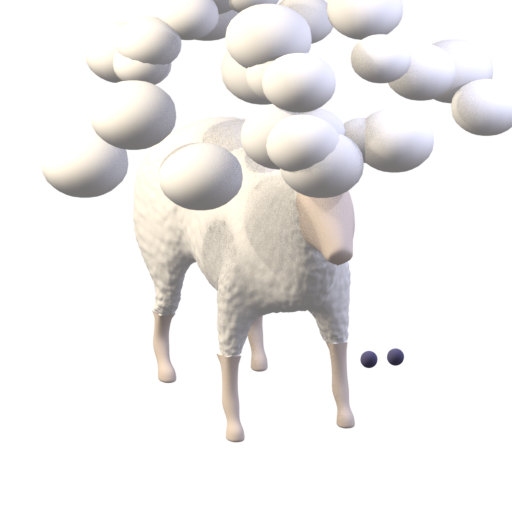
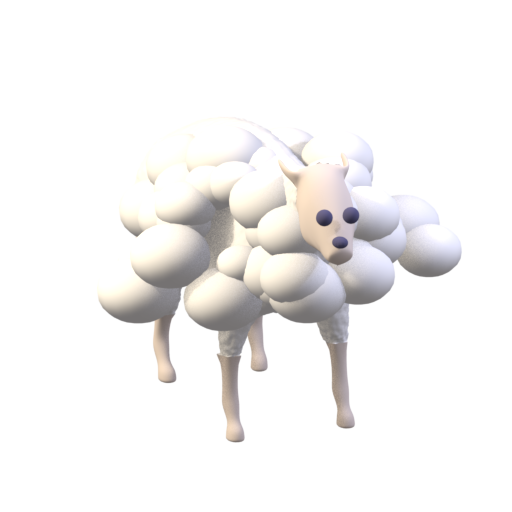
art: fenjelly rebuilt on licensed rigged mesh — real model, real bones
Quaternius Sheep.blend (CC0, 24-bone armature, Idle/Walk/Run/Jump/Death)
→ split wool/skin → Subsurf×4/2 + displace + bone-parented puff shell
(~80k rendered faces vs 326 base) → auto ink eyes/nose on Head bone →
frames sampled from the source Idle action → cel/ink/halftone post.
Primitive-stacked rigs demoted to fallback; provenance + docs updated.

Generated with [Devin](https://devin.ai)

Changed region(s): [[0.0938, 0.0, 1.0, 0.7812], [0.625, 0.6562, 0.6875, 0.8125], [0.6875, 0.6562, 0.8125, 0.7188]]

diff --git a/tools/art/rig_auto.py b/tools/art/rig_auto.py
@@ -11,17 +11,13 @@ HERE = os.path.dirname(os.path.abspath(__file__))
 DUMP = os.path.join(HERE, "..", "species_dump.json")
 OUT = os.path.join(HERE, "rigs_gen.py")
 
-# Core species carry no "body" field — assigned by hand (fenjelly keeps its
-# authored rig in render_kin.py; this map is only for the other 20).
-CORE_BODY = {
-    "puffmite": "blob", "fenlump": "cow", "cindlump": "blob",
-    "corlmite": "bird", "dozantler": "deer", "sprigmelt": "human",
-    "briargoo": "blob", "voltgoo": "blob", "faradlump": "cow",
-    "loammelt": "blob", "shademite": "mouse", "shadelump": "cow",
-    "shademelt": "blob", "loampuff": "blob", "nibjelly": "cow",
-    "piplump": "bird", "marlump": "cow", "quackbill": "bird",
-    "ironpact_grunt": "human", "ironpact_sweeper": "human",
-    "fenjelly": "cow",
+# Legendary accessories — the old procedural sprites stamped these; the rigs
+# keep the same identity marks (see gen_assets.py ACCESSORY).
+ACCESSORY = {
+    "scalbeak": "crown", "snovstride": "halo", "nibhand": "mask",
+    "shadekin": "horns", "wyrmhoof": "horns", "cindchew": "crest",
+    "flarbeak": "crest", "tidscale": "fins", "scalcrest": "crown",
+    "vermtrot": "wings",
 }
 
 INK = (0.11, 0.10, 0.18)
@@ -53,6 +49,33 @@ def eyes(x, y, z, r, mat, dx=0.0):
             {"kind": "sph", "c": (x + dx, y, z), "r": r, "mat": mat}]
 
 
+def accessory(kind, top):
+    """Extra parts stamped on the head anchor `top` = (x, y, z) approx."""
+    x, y, z = top
+    if kind == "crown":
+        P = [{"kind": "cyl", "c": (x, y, z + 0.06), "r": 0.09, "depth": 0.12, "mat": 4}]
+        P += [{"kind": "cyl", "c": (x + dx, y, z + 0.18), "r": 0.035, "depth": 0.12, "mat": 4}
+              for dx in (-0.07, 0.0, 0.07)]
+        return P
+    if kind == "halo":
+        return [{"kind": "sph", "c": (x + 0.16 * math.cos(a), y, z + 0.05 + 0.16 * math.sin(a)),
+                 "r": 0.035, "mat": 4} for a in [i * 1.2566 for i in range(5)]]
+    if kind == "horns":
+        return [{"kind": "cyl", "c": (x + sx * 0.16, y, z + 0.1), "r": 0.04, "depth": 0.22,
+                 "rot": (0, sx * 0.7, 0), "mat": 4} for sx in (-1, 1)]
+    if kind == "crest":
+        return [{"kind": "sph", "c": (x, y, z + 0.08), "r": (0.05, 0.14, 0.16), "mat": 4}]
+    if kind == "fins":
+        return [{"kind": "sph", "c": (x + sx * 0.24, y + 0.05, z + 0.02),
+                 "r": (0.04, 0.16, 0.12), "rot": (0, 0, sx * 0.5), "mat": 4} for sx in (-1, 1)]
+    if kind == "mask":
+        return [{"kind": "sph", "c": (x, y - 0.05, z), "r": (0.26, 0.05, 0.09), "mat": 1}]
+    if kind == "wings":  # back fan
+        return [{"kind": "sph", "c": (x, y + 0.3, z), "r": (0.3, 0.05, 0.18),
+                 "rot": (0.5, 0, 0), "mat": 4}]
+    return []
+
+
 def gen(sid, body, col, rng):
     """Return a rig dict: mats + parts (+ optional f1 bob)."""
     m0 = col                       # body
@@ -74,7 +97,7 @@ def gen(sid, body, col, rng):
         # stubby feet
         for sx in (-1, 1):
             P.append({"kind": "cyl", "c": (sx * r * 0.42, -0.1, 0.08), "r": 0.09, "depth": 0.16, "mat": 1})
-        P += eyes(r * 0.4, -r * 0.86, r * 1.12, 0.085, 2)
+        P += eyes(r * 0.4, -r * 0.93, r * 1.12, 0.085, 2)
         P.append({"kind": "sph", "c": (0, -r * 0.72, r * 0.55), "r": (r * 0.55, r * 0.5, r * 0.45), "mat": 3})
         P.append({"kind": "sph", "c": (0, -r * 0.98, r * 0.8), "r": (0.1, 0.04, 0.05), "mat": 2})
 
@@ -83,14 +106,15 @@ def gen(sid, body, col, rng):
         bl = 0.62 * s * scale      # body length half-extent
         bh = 0.40 * s * scale      # body half-height
         bz = 0.62 * s * scale      # body center z
+        hz = bz + bh * (0.55 + (head_z - 1.0) * 0.8)  # head_z raises the head
         P.append({"kind": "sph", "c": (0, 0.1, bz), "r": (bh * 0.9, bl, bh), "mat": 0})
-        P.append({"kind": "sph", "c": (0, -bl - 0.12, bz + bh * 0.55), "r": (0.24, 0.26, 0.26), "mat": 1})
+        P.append({"kind": "sph", "c": (0, -bl - 0.12, hz), "r": (0.24, 0.26, 0.26), "mat": 1})
         P += legs(bh * 0.62, bl * 0.55, 0, bz - bh * 0.7 + 0.18, 0.085, 1)
         for sx in (-1, 1):  # ears / horns
-            P.append({"kind": "sph", "c": (sx * 0.20, -bl - 0.06, bz + bh * 0.9),
+            P.append({"kind": "sph", "c": (sx * 0.20, -bl - 0.06, hz + bh * 0.35),
                       "r": (ear_r, 0.07, ear_r + horn), "rot": (0, 0, sx * 0.45), "mat": 1})
         P.append({"kind": "sph", "c": (0, bl + 0.2, bz + bh * 0.3), "r": (0.07, 0.16, 0.07), "mat": 1})  # tail
-        P += eyes(0.12, -bl - 0.36, bz + bh * 0.68, 0.065, 2)
+        P += eyes(0.12, -bl - 0.38, hz + bh * 0.14, 0.065, 2)
 
     def bird():
         nonlocal P
@@ -104,7 +128,7 @@ def gen(sid, body, col, rng):
         P.append({"kind": "sph", "c": (0, r * 0.85, r * 1.35), "r": (0.12, 0.3, 0.1), "mat": 1})  # tail
         for sx in (-1, 1):
             P.append({"kind": "cyl", "c": (sx * 0.14, -0.05, 0.12), "r": 0.05, "depth": 0.24, "mat": 1})
-        P += eyes(0.17, -r * 1.18, r * 2.05, 0.065, 2)
+        P += eyes(0.17, -r * 1.34, r * 2.0, 0.065, 2)
 
     def ghost():
         nonlocal P
@@ -115,7 +139,7 @@ def gen(sid, body, col, rng):
                   "sq": 0.9, "seed": rng.randint(1, 999), "jitter": 0.1, "mat": 0})
         for sx in (-1, 1):  # stub arms
             P.append({"kind": "sph", "c": (sx * r * 1.0, -0.1, r * 1.2), "r": (0.16, 0.12, 0.2), "mat": 0})
-        P += eyes(0.21, -r * 0.82, r * 1.95, 0.08, 2)
+        P += eyes(0.21, -r * 0.94, r * 1.95, 0.08, 2)
 
     def human():
         nonlocal P
@@ -127,7 +151,7 @@ def gen(sid, body, col, rng):
             P.append({"kind": "cyl", "c": (sx * (t + 0.1), -0.05, 0.95 * s), "r": 0.09, "depth": 0.55 * s,
                       "mat": 1})
             P.append({"kind": "cyl", "c": (sx * 0.14, 0, 0.28 * s), "r": 0.1, "depth": 0.56 * s, "mat": 1})
-        P += eyes(0.1, -0.23, 1.58 * s, 0.06, 2)
+        P += eyes(0.1, -0.28, 1.58 * s, 0.06, 2)
 
     def serpent():
         nonlocal P
@@ -140,7 +164,7 @@ def gen(sid, body, col, rng):
                       "r": (r * (1 - k * 0.45),) * 3, "mat": 0 if i % 2 == 0 else 1})
         hx, hy, hz = 0.0, -r - 0.1, r * 1.2
         P.append({"kind": "sph", "c": (hx, hy, hz), "r": (r * 1.1, r * 1.15, r), "mat": 0})
-        P += eyes(0.15, hy - r * 1.05, hz + 0.06, 0.065, 2)
+        P += eyes(0.15, hy - r * 1.18, hz + 0.06, 0.065, 2)
 
     def small_quad(ear_big, tail_len):
         nonlocal P
@@ -153,18 +177,21 @@ def gen(sid, body, col, rng):
         P += legs(r * 0.55, r * 0.6, 0, r * 0.7, 0.06, 1)
         P.append({"kind": "cyl", "c": (0, r * 1.2, r + 0.2), "r": 0.04, "depth": tail_len, "mat": 1,
                   "rot": (0.7, 0, 0)})
-        P += eyes(0.16, -r * 1.7, r * 1.98, 0.065, 2)
+        P += eyes(0.16, -r * 1.8, r * 1.95, 0.065, 2)
 
     def hedgehog():
         nonlocal P
         r = 0.5 * s
-        P.append({"kind": "fluff", "c": (0, 0.1, r + 0.15), "r": r * 1.15, "n": 22,
-                  "sq": 0.75, "seed": rng.randint(1, 999), "jitter": 0.2, "mat": 1})
-        P.append({"kind": "sph", "c": (0, -r * 1.15, r * 0.9), "r": (r * 0.55, r * 0.6, r * 0.5), "mat": 3})
+        # body mound first so the fluff sits on its back half, feet under body
+        P.append({"kind": "sph", "c": (0, 0.05, r * 0.75), "r": (r * 0.8, r * 1.0, r * 0.75), "mat": 0})
+        P.append({"kind": "fluff", "c": (0, 0.28, r * 1.05), "r": r * 0.95, "n": 20,
+                  "sq": 0.8, "seed": rng.randint(1, 999), "jitter": 0.15, "mat": 1})
+        # face out front, clear of the fluff
+        P.append({"kind": "sph", "c": (0, -r * 1.05, r * 0.85), "r": (r * 0.5, r * 0.55, r * 0.45), "mat": 3})
         for sx in (-1, 1):
-            P.append({"kind": "cyl", "c": (sx * r * 0.5, -0.2, 0.08), "r": 0.07, "depth": 0.16, "mat": 3})
-        P.append({"kind": "sph", "c": (0, -r * 1.7, r * 0.8), "r": (0.07, 0.05, 0.06), "mat": 2})  # nose
-        P += eyes(0.17, -r * 1.55, r * 1.08, 0.065, 2)
+            P.append({"kind": "cyl", "c": (sx * r * 0.45, -r * 0.35, 0.08), "r": 0.07, "depth": 0.16, "mat": 1})
+        P.append({"kind": "sph", "c": (0, -r * 1.62, r * 0.8), "r": (0.08, 0.05, 0.06), "mat": 2})  # nose
+        P += eyes(0.17, -r * 1.58, r * 1.0, 0.065, 2)
 
     def monkey():
         nonlocal P
@@ -176,7 +203,7 @@ def gen(sid, body, col, rng):
             P.append({"kind": "cyl", "c": (sx * (t + 0.12), -0.02, 0.75 * s), "r": 0.08, "depth": 0.7 * s, "mat": 1})
             P.append({"kind": "cyl", "c": (sx * 0.13, 0, 0.24 * s), "r": 0.09, "depth": 0.48 * s, "mat": 1})
         P.append({"kind": "sph", "c": (0, t * 1.6, 0.7 * s), "r": (0.06, 0.3, 0.06), "rot": (-0.6, 0, 0), "mat": 1})
-        P += eyes(0.11, -0.25, 1.5 * s, 0.06, 2)
+        P += eyes(0.11, -0.29, 1.5 * s, 0.06, 2)
 
     archetypes = {
         "blob": blob, "quadruped": quadruped, "bird": bird, "ghost": ghost,
@@ -189,6 +216,18 @@ def gen(sid, body, col, rng):
         "hedgehog": hedgehog,
     }
     archetypes.get(body, blob)()
+    acc = ACCESSORY.get(sid)
+    if acc:  # head-top anchor per archetype (approx, in rig units)
+        top = {
+            "blob": (0, 0, 1.15 * s), "quadruped": (0, -0.62, 1.05 * s),
+            "cow": (0, -0.72, 1.15 * s), "deer": (0, -0.62, 1.2 * s),
+            "boar": (0, -0.66, 1.05 * s), "bird": (0, -0.42, 1.25 * s),
+            "ghost": (0, 0, 1.6 * s), "human": (0, -0.02, 1.85 * s),
+            "serpent": (0, -0.35, 0.7 * s), "kitty": (0, -0.5, 1.0 * s),
+            "mouse": (0, -0.5, 1.0 * s), "hedgehog": (0, -0.1, 1.0 * s),
+            "monkey": (0, -0.02, 1.75 * s),
+        }.get(body, (0, 0, 1.2 * s))
+        P += accessory(acc, top)
     return {"mats": [m0, m1, m2, m3, m4], "parts": tuple(P),
             "f1": {"fluff_dy": 0.06, "ear_drop": 0.3, "head_dy": 0.04}}
 
@@ -200,7 +239,7 @@ def fmt_col(c):
 def emit(species):
     lines = ["# Auto-generated by rig_auto.py — do not edit by hand", "RIGS_GEN = {"]
     for sp in species:
-        sid, body, col = sp["id"], sp["body"] or CORE_BODY.get(sp["id"], "blob"), hx(sp["color"])
+        sid, body, col = sp["id"], sp.get("body") or "blob", hx(sp["color"])
         rng = random.Random(sid)
         rig = gen(sid, body, col, rng)
         lines.append('    "%s": {' % sid)
@@ -210,7 +249,8 @@ def emit(species):
             d = dict(p)
             c = d.pop("c"); kind = d.pop("kind"); mat = d.pop("mat")
             rest = ", ".join('%r: %r' % (k, v) for k, v in d.items())
-            lines.append('            {"kind": %r, "c": %r, %s, "mat": %d},' % (kind, tuple(round(v,3) for v in c), rest, mat))
+            rest = (rest + ", ") if rest else ""
+            lines.append('            {"kind": %r, "c": %r, %s"mat": %d},' % (kind, tuple(round(v,3) for v in c), rest, mat))
         lines.append('        ),')
         lines.append('        "f1": %r,' % rig["f1"])
         lines.append('    },')

diff --git a/tools/art/render_src_asset.py b/tools/art/render_src_asset.py
@@ -27,9 +27,10 @@ CFG = {
         "rot_z": 55.0,              # turn the rig until it faces the camera
         "action": "Idle", "frames": (10, 85),
         "eye_r": 0.04, "eye_gap": 0.065, "eye_fwd": -0.03, "eye_up": 0.17,
+        "nose_r": 0.035, "nose_up": 0.055,
         # puff shell over the wool bbox — real fleece clumps on real anatomy
-        "puffs": {"n": 30, "r": 0.16, "sq": 0.78, "shell": (0.9, 1.1),
-                  "z_lo": 0.45, "seed": 5, "bone": "Body"},
+        "puffs": {"n": 48, "r": 0.15, "sq": 0.78, "shell": (0.7, 0.95),
+                  "shrink": 0.85, "z_lo": 0.45, "seed": 5, "bone": "Body"},
         "target_h": 1.45,
     },
 }
@@ -113,15 +114,12 @@ def normalize(objs, target_h):
 
 def bone_attach(arm, bone_name, ob, world_m):
     """Parent `ob` to a bone so it lands at `world_m` right now and rides the
-    bone afterward. Bone-parent children resolve against the bone TAIL in
-    pose space — invert that chain or the offset gets applied twice."""
-    pb = arm.pose.bones[bone_name]
-    tail = mathutils.Matrix.Translation((0, -arm.data.bones[bone_name].length, 0))
-    base = arm.matrix_world @ pb.matrix @ tail
+    bone afterward. The matrix_world setter already carries Blender's own
+    bone-parent correction — hand-solving matrix_basis double-applies it."""
     ob.parent = arm
     ob.parent_type = 'BONE'
     ob.parent_bone = bone_name
-    ob.matrix_basis = base.inverted() @ world_m
+    ob.matrix_world = world_m
 
 
 def add_eyes(arm, bone_name, cfg, m):
@@ -148,6 +146,16 @@ def add_eyes(arm, bone_name, cfg, m):
         bone_attach(arm, bone_name, e, mathutils.Matrix.Translation(p))
         bpy.ops.object.shade_smooth()
     print("EYES at", tuple(round(c, 3) for c in center))
+    if cfg.get("nose_r"):
+        bpy.ops.mesh.primitive_uv_sphere_add(segments=16, ring_count=12,
+                                             radius=cfg["nose_r"])
+        e = bpy.context.active_object
+        e.data.materials.append(m)
+        p = t + fwd * (cfg["eye_fwd"] + 0.04) + mathutils.Vector(
+            (0, 0, cfg["nose_up"]))
+        bone_attach(arm, bone_name, e,
+                    mathutils.Matrix.Translation(p) @ mathutils.Matrix.Diagonal(
+                        (1.15, 1.0, 0.8, 1)))
 
 
 def fluff_shell(arm, wool, cfg, m):
@@ -159,7 +167,7 @@ def fluff_shell(arm, wool, cfg, m):
     lo = mathutils.Vector((min(v.x for v in bb), min(v.y for v in bb), min(v.z for v in bb)))
     hi = mathutils.Vector((max(v.x for v in bb), max(v.y for v in bb), max(v.z for v in bb)))
     c = (lo + hi) / 2
-    ext = (hi - lo) / 2
+    ext = (hi - lo) / 2 * cfg.get("shrink", 1.0)
     z_min = lo.z + (hi.z - lo.z) * cfg["z_lo"]
     bone = cfg["bone"] if cfg["bone"] in arm.data.bones else arm.data.bones[0].name
     rng = random.Random(cfg["seed"])

diff --git a/tools/art/render_kin.py b/tools/art/render_kin.py
@@ -55,6 +55,27 @@ RIGS = {
         # f1 idle variation: fluff bobs up, ears lift a touch
         "f1": {"fluff_dy": 0.06, "ear_drop": 0.35, "head_dy": 0.03},
     },
+    # the rancher — same render pipeline so the player reads like the kin
+    "player": {
+        "mats": [(0.82, 0.48, 0.24),      # 0 jacket #d17b3c
+                 (0.30, 0.62, 0.88),      # 1 trousers #4d9de0
+                 (0.11, 0.10, 0.18),      # 2 ink beads
+                 (0.91, 0.79, 0.63),      # 3 skin #e8c9a0
+                 (0.16, 0.14, 0.18)],     # 4 hat
+        "parts": (
+            {"kind": "sph", "c": (0, 0, 0.95), "r": (0.34, 0.27, 0.48), "mat": 0},   # coat
+            {"kind": "sph", "c": (0, -0.02, 1.58), "r": (0.24, 0.22, 0.24), "mat": 3}, # head
+            {"kind": "cyl", "c": (0, -0.02, 1.82), "r": 0.27, "depth": 0.14, "mat": 4}, # hat brim
+            {"kind": "cyl", "c": (0, -0.02, 1.94), "r": 0.16, "depth": 0.16, "mat": 4}, # hat crown
+            {"kind": "cyl", "c": (-0.42, -0.05, 0.98), "r": 0.09, "depth": 0.5, "mat": 0},
+            {"kind": "cyl", "c": (0.42, -0.05, 0.98), "r": 0.09, "depth": 0.5, "mat": 0},
+            {"kind": "cyl", "c": (-0.14, 0, 0.28), "r": 0.1, "depth": 0.56, "mat": 1},
+            {"kind": "cyl", "c": (0.14, 0, 0.28), "r": 0.1, "depth": 0.56, "mat": 1},
+            {"kind": "sph", "c": (-0.1, -0.27, 1.6), "r": 0.06, "mat": 2},
+            {"kind": "sph", "c": (0.1, -0.27, 1.6), "r": 0.06, "mat": 2},
+        ),
+        "f1": {"fluff_dy": 0.05, "ear_drop": 0.2, "head_dy": 0.04},
+    },
 }
 
 
@@ -113,12 +134,12 @@ def build(sid, frame):
     for p in rig["parts"]:
         c = list(p["c"])
         if frame == 1:
-            if p["kind"] == "fluff" and c[2] > 1.0:
-                c[2] += fluff_dy
-            elif p["kind"] == "sph" and p.get("rot"):
-                c[2] += f1.get("ear_drop", 0) * 0.05
-            elif p["mat"] == 1 and c[2] > 0.8:
-                c[1] += f1.get("head_dy", 0)
+            if p["kind"] == "fluff":
+                c[2] += fluff_dy                    # all fluff bobs
+            elif p.get("rot") and p["kind"] in ("sph", "cyl"):
+                c[2] += f1.get("ear_drop", 0) * 0.15  # ears/appendages lift
+            elif c[2] > 0.8:
+                c[2] += f1.get("head_dy", 0) * 2.0    # upper body bobs on Z
         if p["kind"] == "fluff":
             fluff(tuple(c), p["r"], p["n"], p["sq"], p["seed"] + frame,
                   p["jitter"], mats[p["mat"]])

diff --git a/tools/art/README.md b/tools/art/README.md
@@ -1,40 +1,48 @@
 # Kin Art Pipeline — Blender → post → `assets/kin/`
 
 Replaces `tools/gen_assets.py` shape-stacking for species sprites, one species
-at a time. Each species is a rigged primitive build in Blender, rendered at
-512px, then posterized/inked/halftoned down to the game's 80×64 sprite.
+at a time. Preferred source: **licensed rigged meshes** (CC0, GitHub/HF) —
+render_src_asset.py upgrades them to our look. Primitive rigs
+(render_kin.py RIGS/RIGS_GEN) remain the fallback when no source exists.
 
-## Flow
+## Flow — source-asset path (preferred)
 
 ```
-RIGS entry (tools/art/render_kin.py)
-   │  blender -b -P tools/art/render_kin.py -- <species_id>
+tools/art/src/<pack>/… .blend            (downloaded, licensed, see PROVENANCE)
+   │  blender -b <model.blend> -P tools/art/render_src_asset.py -- <sid>
+   │    · splits wool/skin materials · Subsurf×N (×60-140 base faces)
+   │    · procedural displace on wool · puff-shell fleece (bone-parented)
+   │    · auto-placed ink eyes/nose on the Head bone · palette recolor
+   │    · drives the model's OWN armature action → real skeletal frames
    ▼
-tools/art/render/<sid>_f{0,1}.png          (512px raw EEVEE render)
-   │  python3 tools/art/post_kin.py <species_id>
+tools/art/render/<sid>_f{0,1}.png        (512px raw EEVEE render)
+   │  python3 tools/art/post_kin.py <sid>
+   │    · alpha crop → 5-level cel banding (hue kept) → warm pastel lift
+   │    · violet shade → halftone dots in shade → navy ink contour → 80×64
    ▼
-assets/kin/<sid>_f{0,1}.png                (80×64 game sprite)
-   + tools/art/render/<sid>_f{0,1}_x4.png  (4× review preview)
+assets/kin/<sid>_f{0,1}.png + render/<sid>_f{0,1}_x4.png (review preview)
    │  godot --headless --path . --import   (AGENTS.md rule 7)
    ▼
-godot --path . -s tools/shot_kin.gd        → /tmp/plg-kin-<sid>.png
+godot --path . -s tools/shot_kin.gd      → /tmp/plg-kin-<sid>.png
 ```
 
-## Authoring a new species
+## Authoring a new species (source path)
 
-1. Read the species entry in `src/data/species.gd` (color, glyph, description,
-   body plan) — the rig must read as that description at 80px.
-2. Add a `RIGS["<sid>"]` entry: `mats` (fleece/skin/ink palette as linear RGB)
-   + `parts` list. Kinds: `sph` (ellipsoid via r tuple), `cyl`, `fluff`
-   (deterministic squashed-sphere cluster — seed makes it reproducible).
-   `f1` dict = idle-frame deltas (bob, ear lift).
-3. Coordinate convention: ground plane z=0, creature ~1.5–2.0 units tall,
-   faces -Y. Camera is a fixed ortho ¾ view — do not move it per-species.
-4. Render + post + shot_kin. Review the `_x4.png` preview AND the in-game
-   screenshot. Iterate on the rig, not the post knobs — post is shared.
-5. External CC0 meshes (GitHub/HF): import in `build()`, scale to the same
-   unit convention, apply the same `mat()` slots. Record source + license in
-   `tools/art/PROVENANCE.md`.
+1. Species data first: `src/data/species.gd` color/description/body plan must
+   read in the final sprite.
+2. Find a licensed mesh (CC0 > CC-BY). Quaternius packs on OpenGameArt /
+   poly.pizza cover most quadrupeds/creatures. Record in `PROVENANCE.md`
+   BEFORE shipping the sprite.
+3. `render_src.py` quick-view the raw model to check pose/materials.
+4. Add `CFG["<sid>"]` in render_src_asset.py: wool material index, palette,
+   subd levels, displace, rot_z (face the camera), action + frame pair,
+   eye params (head bone auto-solve), puff shell for woolly species.
+5. Render → post → shot_kin → review x4 + in-game shot. Iterate CFG, not post.
+
+## Primitive path (fallback)
+
+`render_kin.py` RIGS/RIGS_GEN: dict-driven parts (sph/cyl/fluff), isometric
+camera, same post. Use only when no rigged source fits the species.
 
 ## Look rules (post_kin.py — shared, tune globally not per-species)
 

diff --git a/tools/art/PROVENANCE.md b/tools/art/PROVENANCE.md
@@ -6,5 +6,5 @@ Every non-original source used by the art pipeline. CC0/CC-BY only.
 |---|---|---|---|
 | fenjelly rig | built by hand in `render_kin.py` from Blender primitives | original work | `assets/kin/fenjelly_f{0,1}.png` |
 | auto rigs | `tools/art/rig_auto.py` → `rigs_gen.py` — 13 archetypes parameterized from `species_dump.json` (body/color/elements), seeded per id | original work | `assets/kin/<sid>_f{0,1}.png` for 115 non-fenjelly species |
-| farm animals pack | `tools/art/src/farm_animals/` — Quaternius (patreon.com/quaternius) | CC0 1.0, `License.txt` in-tree | reference geometry only during rig exploration; **not loaded** by the shipped pipeline — `tools/art/render/src_sheep.png` |
+| farm animals pack — `Sheep.blend` (307-face mesh + 24-bone armature + Idle/Walk/Run/Jump/Death actions) | `tools/art/src/farm_animals/` — Quaternius (patreon.com/quaternius), opengameart.org/content/lowpoly-animated-farm-animal-pack | CC0 1.0, `License.txt` in-tree | loaded by `render_src_asset.py` → `assets/kin/fenjelly_f{0,1}.png`; other six animals (cow/horse/pig/llama/pug/zebra) available for future species |
 | `render_src.py` | renders a source `.blend` for inspection | original work | tooling only |
